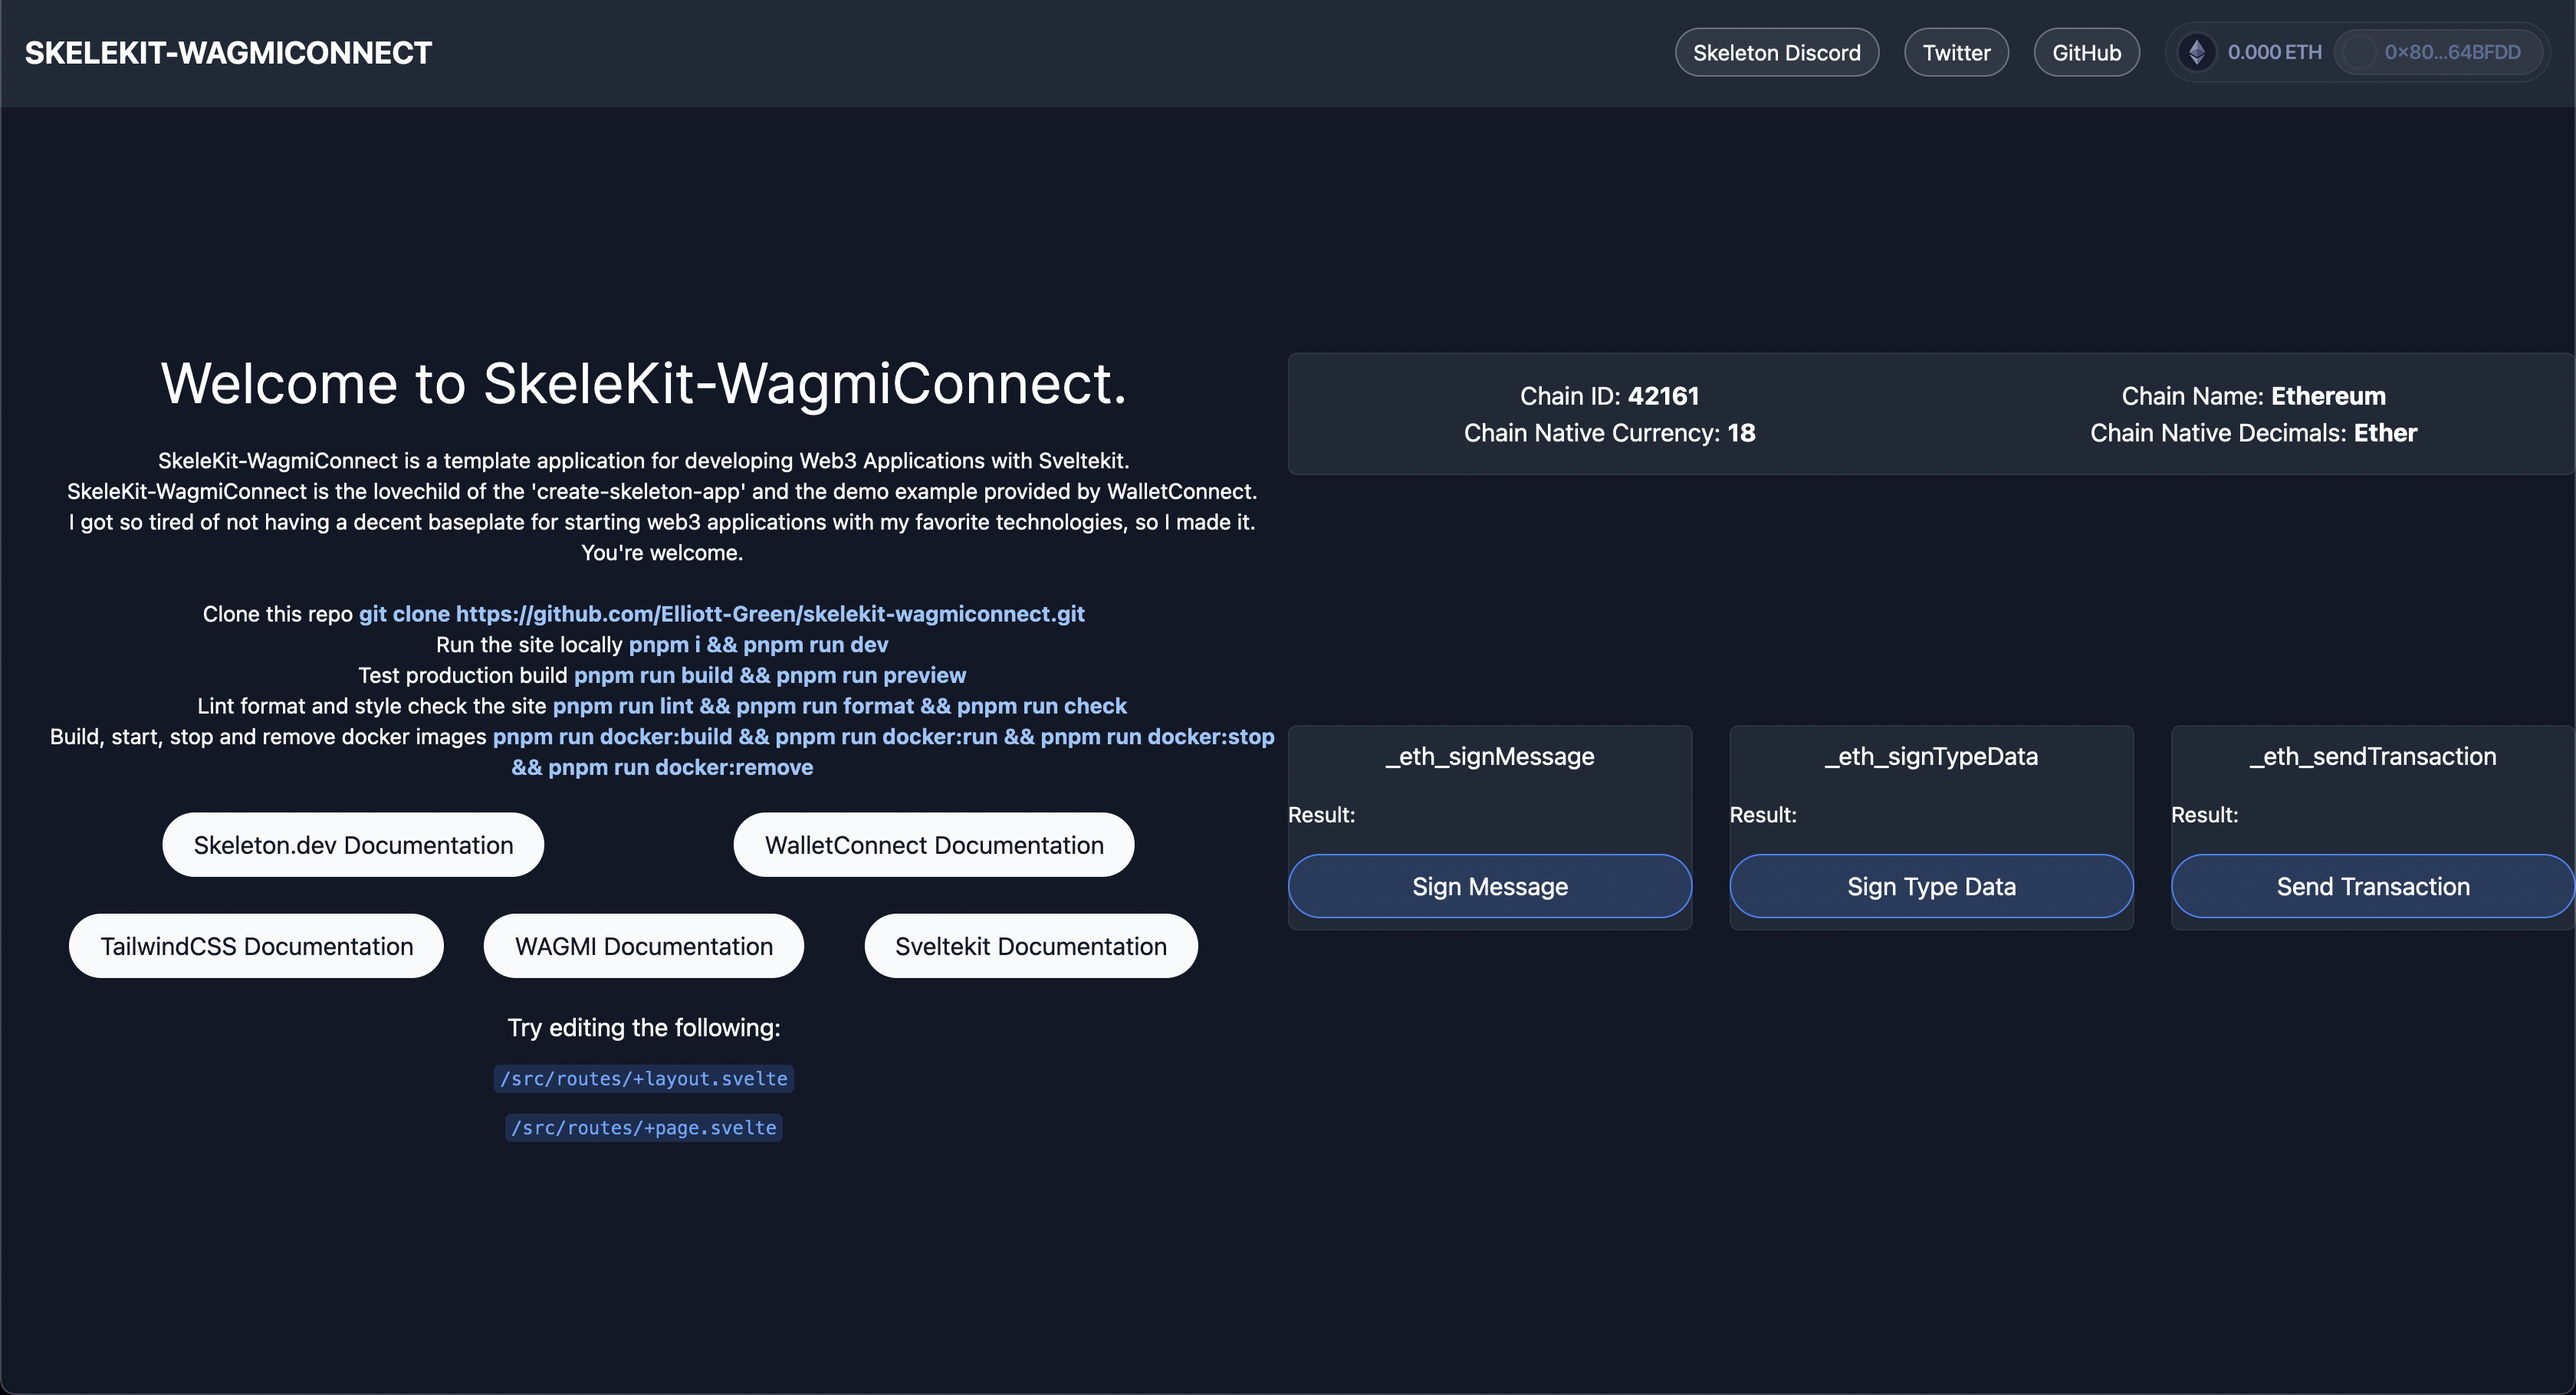
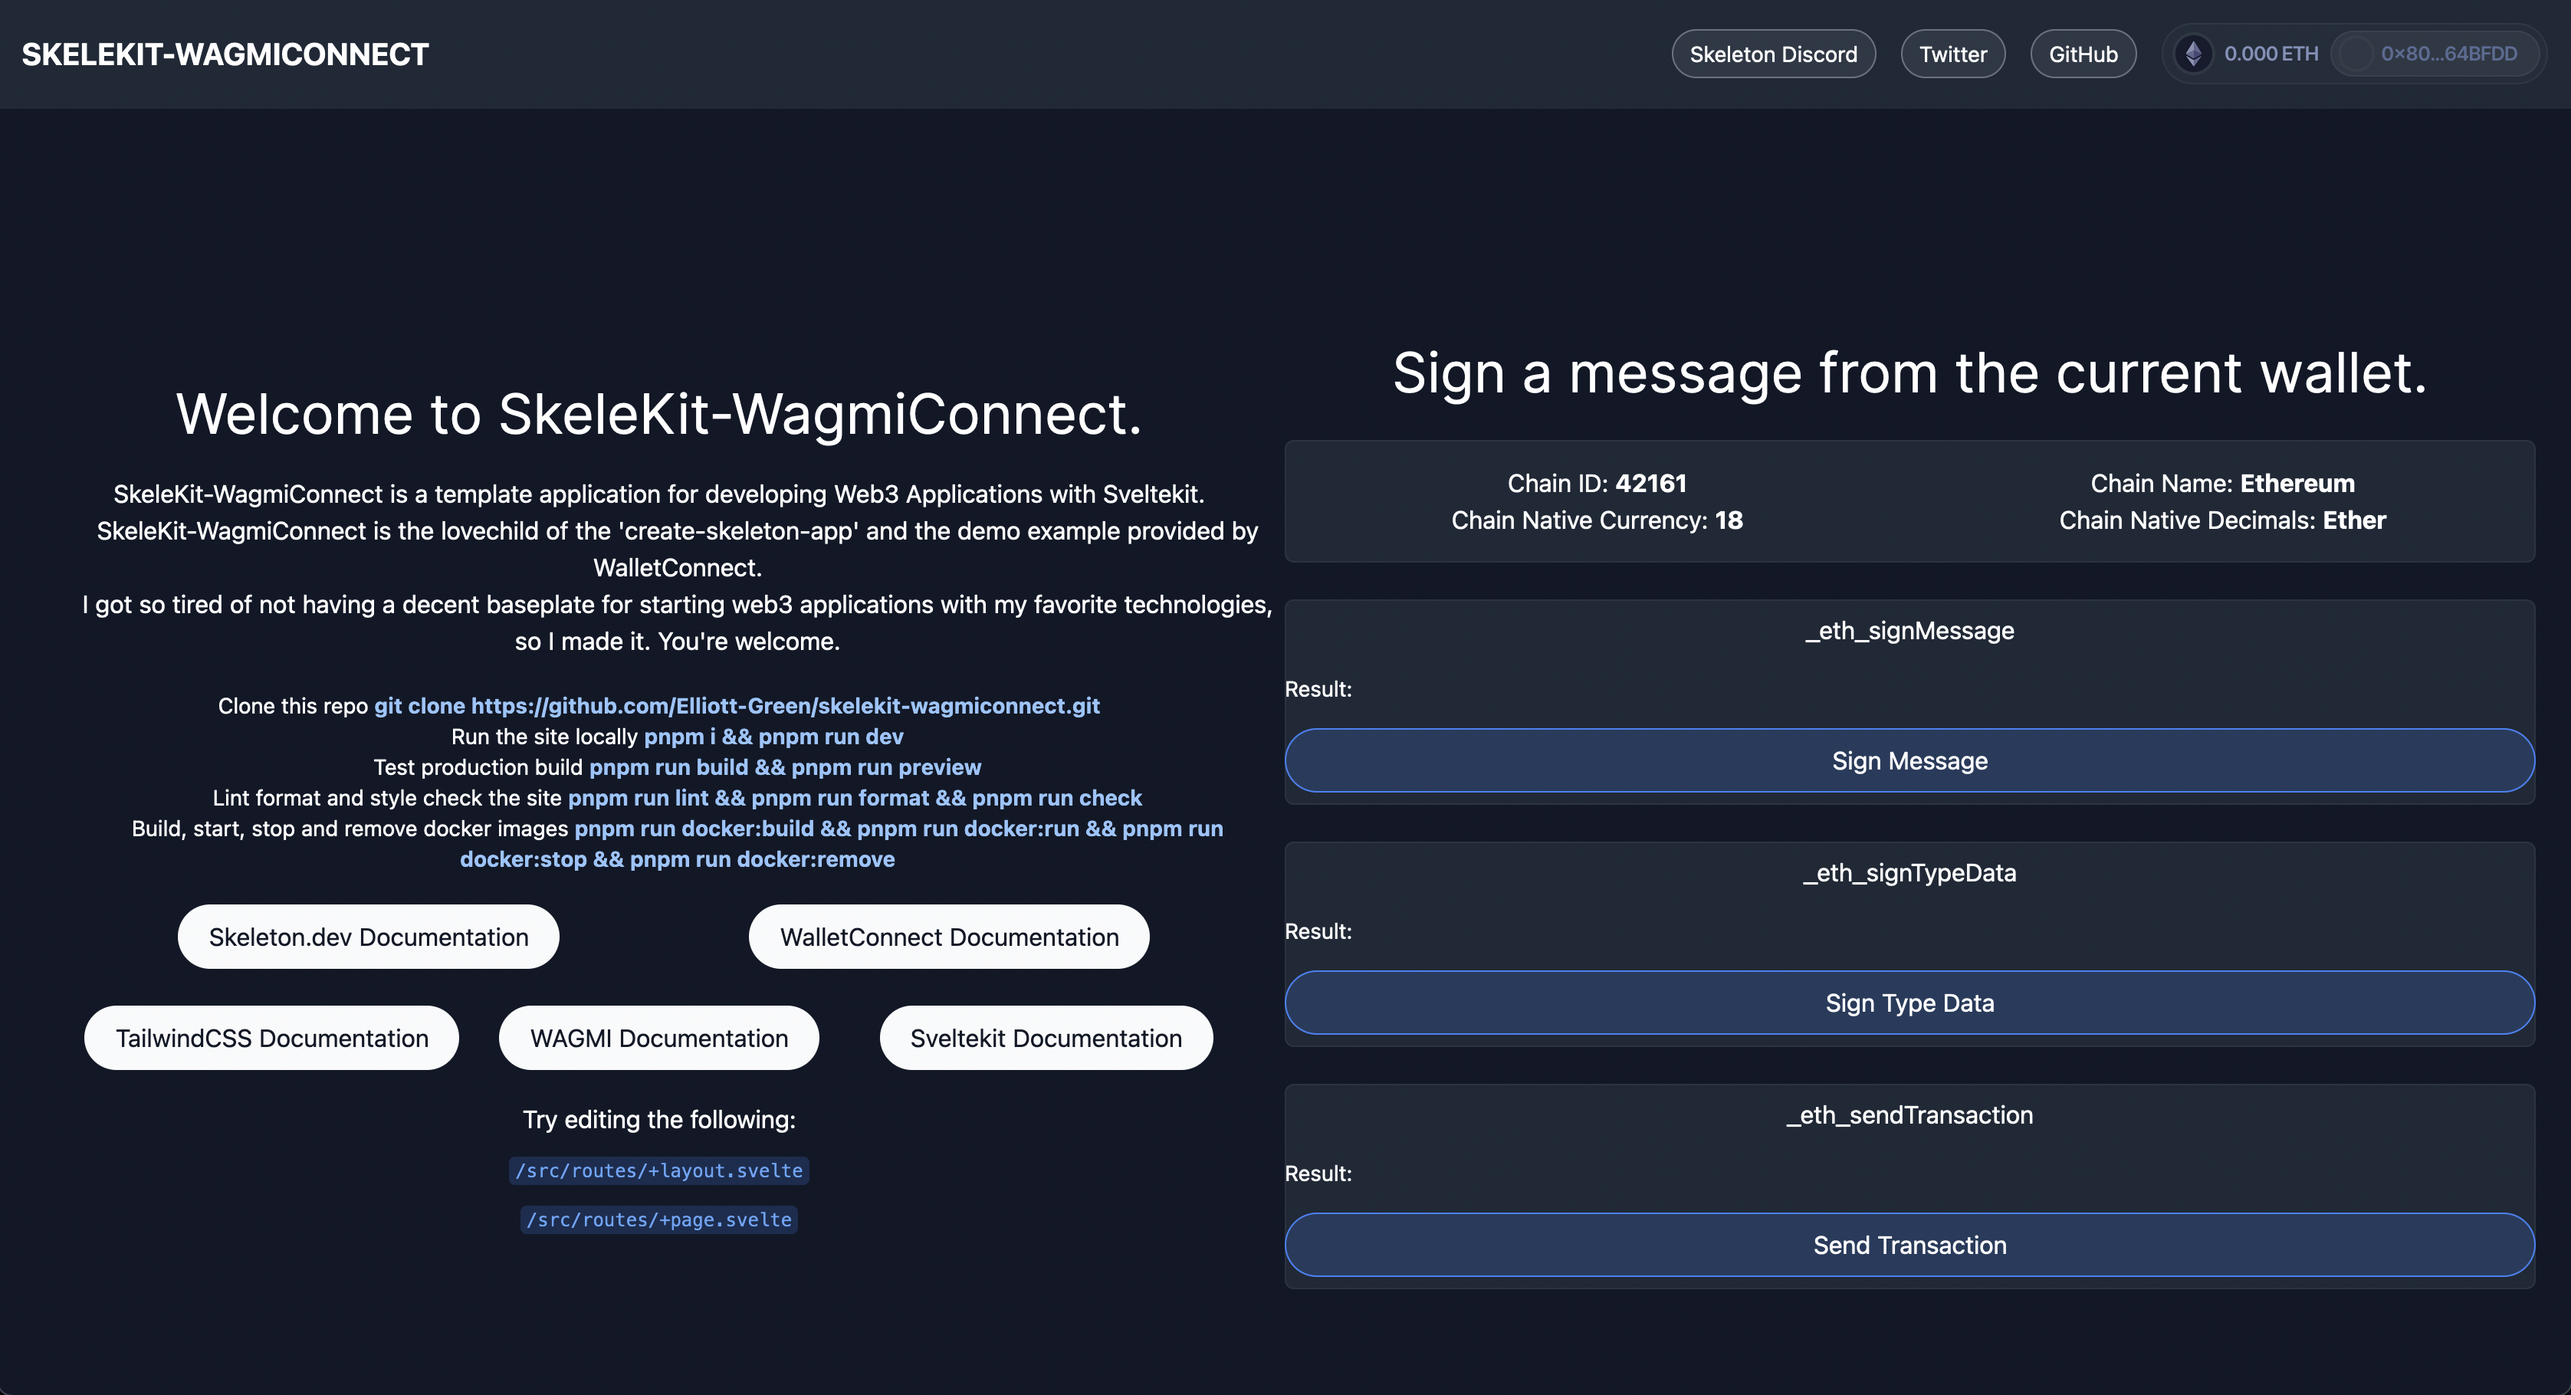
[chore] make site grid layout more responsive for mobile

diff --git a/src/routes/+page.svelte b/src/routes/+page.svelte
@@ -13,12 +13,12 @@
 	import CustomForm from '../partials/CustomForm.svelte';
 </script>
 
-<div class="grid grid-cols-1 md:grid-cols-2 pt-20 md:pt-40">
+<div class="grid grid-cols-1 md:grid-cols-2 pt-16 md:pt-36 mx-6 md:md-0">
 	<div class="grid-cols-1">
 		<div class="container h-full mx-auto flex justify-center items-center">
 			<div class="space-y-5 text-center flex flex-col items-center">
 				<h2 class="h2">Welcome to SkeleKit-WagmiConnect.</h2>
-				<div class="text-sm space-x-6">
+				<div class="text-md space-x-6">
 					<p>
 						SkeleKit-WagmiConnect is a template application for developing Web3 Applications with
 						Sveltekit.
@@ -130,24 +130,31 @@
 		</div>
 	</div>
 
-	<div class="grid grid-cols-1 md:grid-cols-3 gap-6 text-center pt-20 md:pt-0 mx-4">
-		{#if $account.isConnected}
-			<h2 class="h2">Sign a message from the current wallet.</h2>
-			<div class="grid-span-1 md:col-span-3">
-				<Network />
-			</div>
-			<!-- Extra wallet metadata available when present
+	{#if $account.isConnected}
+		<div class="pt-20 md:pt-0 mx-0">
+			<h2 class="h2 text-center grid-span-1 md:col-span-3 pt-2">
+				Sign a message from the current wallet.
+			</h2>
+			<div class="grid grid-cols-1 md:grid-cols-3 gap-6 text-center pt-5 md:pt-0">
+				<div class="grid-span-1 md:col-span-3"></div>
+				<div class="grid-span-1 md:col-span-3">
+					<Network />
+				</div>
+				<!-- Extra wallet metadata available when present
 			<div class="col-span-3">
 				<Wallet />
 			</div> 
 			-->
-			<div class="col-span-1"><SignMessage /></div>
-			<div class="col-span-1"><SignTypeData /></div>
-			<div class="col-span-1"><Transaction /></div>
-		{:else}
+				<div class="col-span-3"><SignMessage /></div>
+				<div class="col-span-3"><SignTypeData /></div>
+				<div class="col-span-3"><Transaction /></div>
+			</div>
+		</div>
+	{:else}
+		<div class="grid grid-cols-1 md:grid-cols-3 gap-6 text-center pt-20 md:pt-0 mx-4">
 			<div class="grid-span-1 md:col-span-3"><CustomForm /></div>
-		{/if}
-	</div>
+		</div>
+	{/if}
 </div>
 
 <Toaster />

diff --git a/README.md b/README.md
@@ -18,7 +18,9 @@ This repository superceeds my previous frontend learning efforts with Sveltekit 
 
 <p align="center">
    <img src="./skelekit-wagmiconnect.png" alt="skelekit-wagmiconnect desktop" >
-   <img src="./skelekit-wagmiconnect-mobile.png" alt="skelekit-wagmiconnect mobile" >
+   <img src="./skelekit-wagmiconnect-mobile.png" alt="skelekit-wagmiconnect mobile" width="320" >
+   <img src="./skelekit-wagmiconnect-mobile-network.png" alt="skelekit-wagmiconnect network"  width="320">
+   <img src="./skelekit-wagmiconnect-mobile-sign.png" alt="skelekit-wagmiconnect sign" width="320" >
 </p>
 
 ## Virgins of the way
